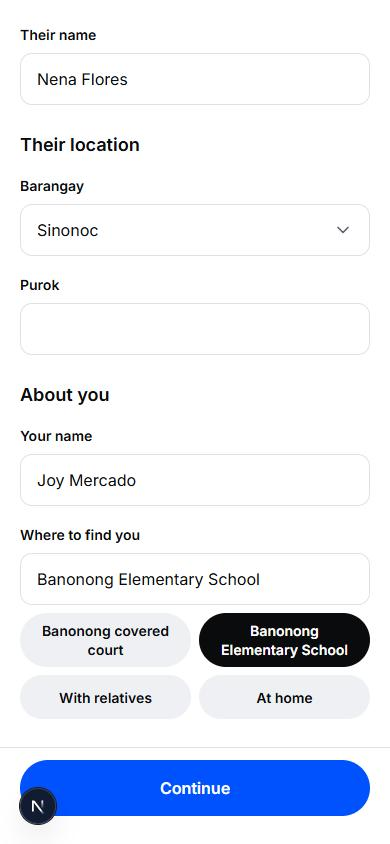
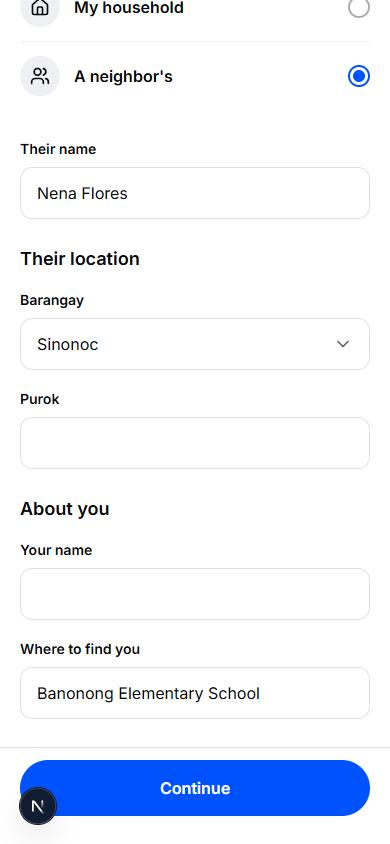
fix(family): drop the place chips, where to find you is a plain optional field BYTE-62

diff --git a/src/components/family/whose-household-form.tsx b/src/components/family/whose-household-form.tsx
@@ -6,7 +6,6 @@ import { HomeIcon, UsersIcon } from "lucide-react";
 import { routes } from "@/lib/contracts";
 import { useMounted } from "@/lib/use-mounted";
 import { Button } from "@/components/ui/button";
-import { Chip } from "@/components/ui/chip";
 import { Input } from "@/components/ui/input";
 import { Label } from "@/components/ui/label";
 import { ProgressSteps } from "@/components/ui/progress-steps";
@@ -20,8 +19,6 @@ import { firstMissing, type StartError, type StartField } from "./whose-househol
 type WhoseHouseholdFormProps = {
   /** The barangays from the hub's settings. */
   barangays: string[];
-  /** The places a neighbor can pick for where to find them, shown under the field. */
-  whereToFind: string[];
   /** The household the link asked for, as in /report?for=neighbor. */
   requestedSource?: ReportDraft["source"] | null;
 };
@@ -58,7 +55,7 @@ const CLEAR_OF_FOOTER = "scroll-mb-36";
 // and coming back keeps the answers. Nothing is picked for the family: the
 // barangay stays empty until they choose one. Continue checks the required
 // fields, shows the first one that is empty and moves focus to it.
-function WhoseHouseholdForm({ barangays, whereToFind, requestedSource = null }: WhoseHouseholdFormProps) {
+function WhoseHouseholdForm({ barangays, requestedSource = null }: WhoseHouseholdFormProps) {
   const router = useRouter();
   const draft = useReportDraft();
   const mounted = useMounted();
@@ -213,20 +210,6 @@ function WhoseHouseholdForm({ barangays, whereToFind, requestedSource = null }: 
                   autoComplete="off"
                   onChange={(event) => change(null, { reporter_where: event.target.value })}
                 />
-                {whereToFind.length > 0 ? (
-                  <div role="group" aria-label="Common places" className="grid grid-cols-2 gap-2">
-                    {whereToFind.map((place) => (
-                      <Chip
-                        key={place}
-                        pressed={draft.reporter_where === place}
-                        onPressedChange={(on) => change(null, { reporter_where: on ? place : "" })}
-                        className="h-auto min-h-11 w-full whitespace-normal px-4 py-2 text-center leading-snug"
-                      >
-                        {place}
-                      </Chip>
-                    ))}
-                  </div>
-                ) : null}
               </Field>
             </section>
           ) : null}

diff --git a/src/app/(family)/report/page.tsx b/src/app/(family)/report/page.tsx
@@ -3,13 +3,11 @@ import { readSetting } from "@/lib/auth/settings";
 import { WhoseHouseholdForm } from "@/components/family/whose-household-form";
 import { parseBarangays } from "./parse-barangays";
 import { parseFor } from "./parse-for";
-import { readShelterNames } from "./read-shelters";
-import { whereOptions } from "./where-options";
 
 export const metadata: Metadata = { title: "New report" };
 
-// The barangay and shelter lists are set on the hub, so the page is built for
-// each request instead of once at build time.
+// The barangay list is set on the hub, so the page is built for each request
+// instead of once at build time.
 export const dynamic = "force-dynamic";
 
 type ReportStartPageProps = {
@@ -18,5 +16,5 @@ type ReportStartPageProps = {
 
 export default async function ReportStartPage({ searchParams }: ReportStartPageProps) {
   const { for: household } = await searchParams;
-  return <WhoseHouseholdForm barangays={parseBarangays(readSetting("barangays"))} whereToFind={whereOptions(readShelterNames())} requestedSource={parseFor(household)} />;
+  return <WhoseHouseholdForm barangays={parseBarangays(readSetting("barangays"))} requestedSource={parseFor(household)} />;
 }
